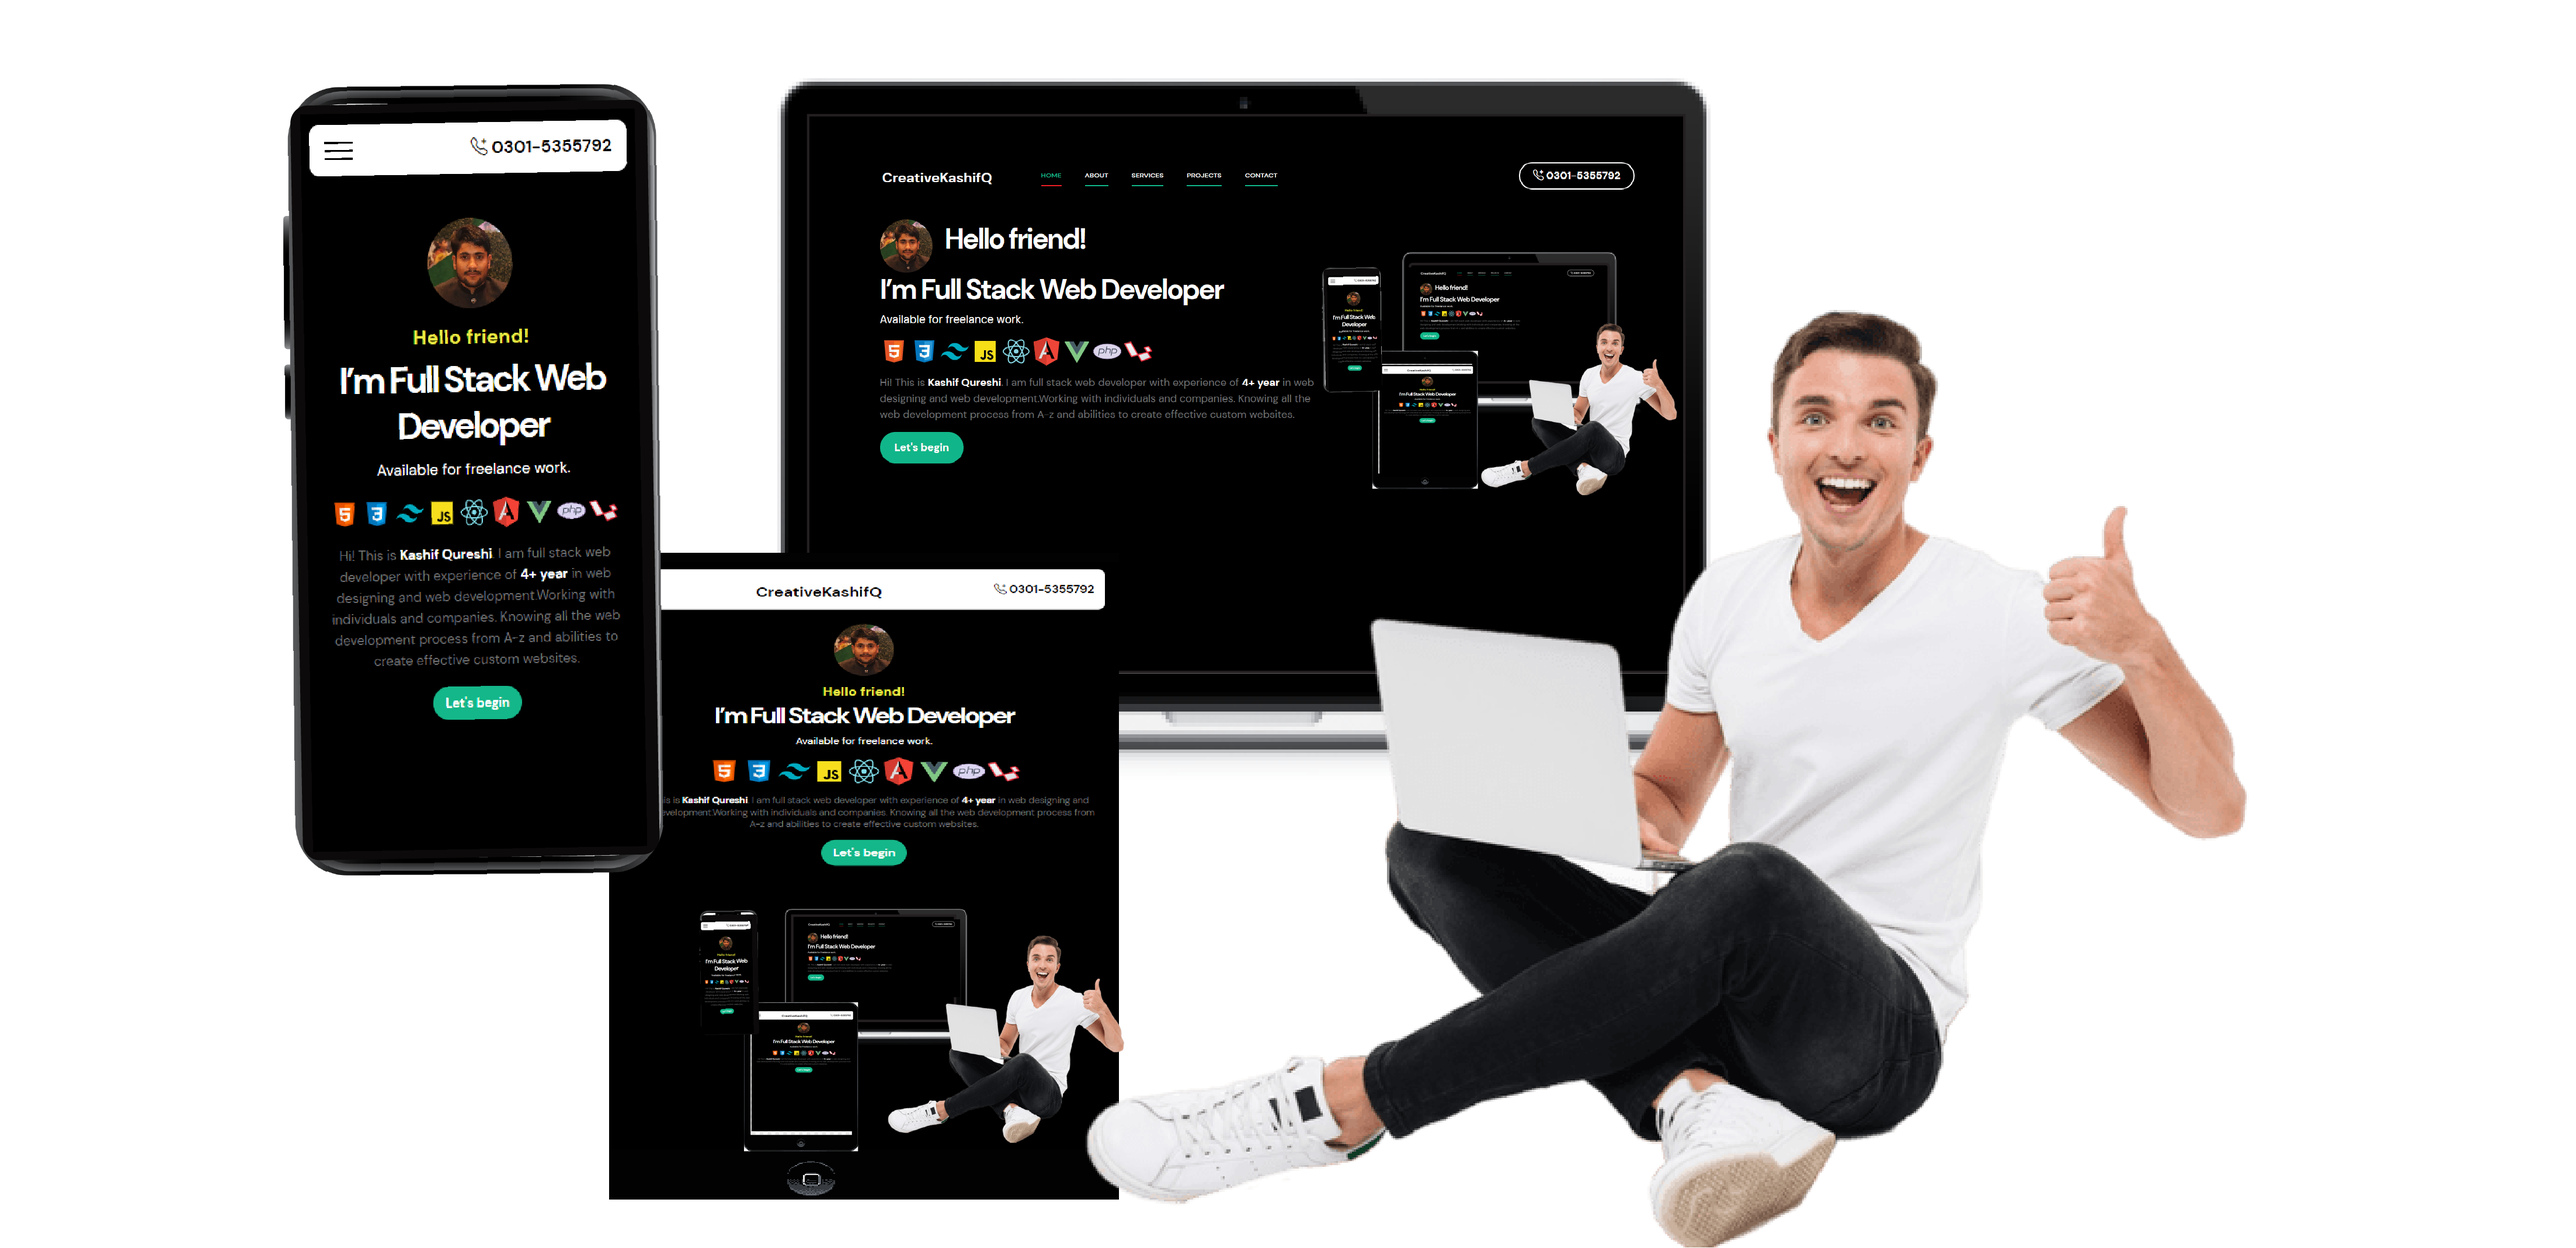
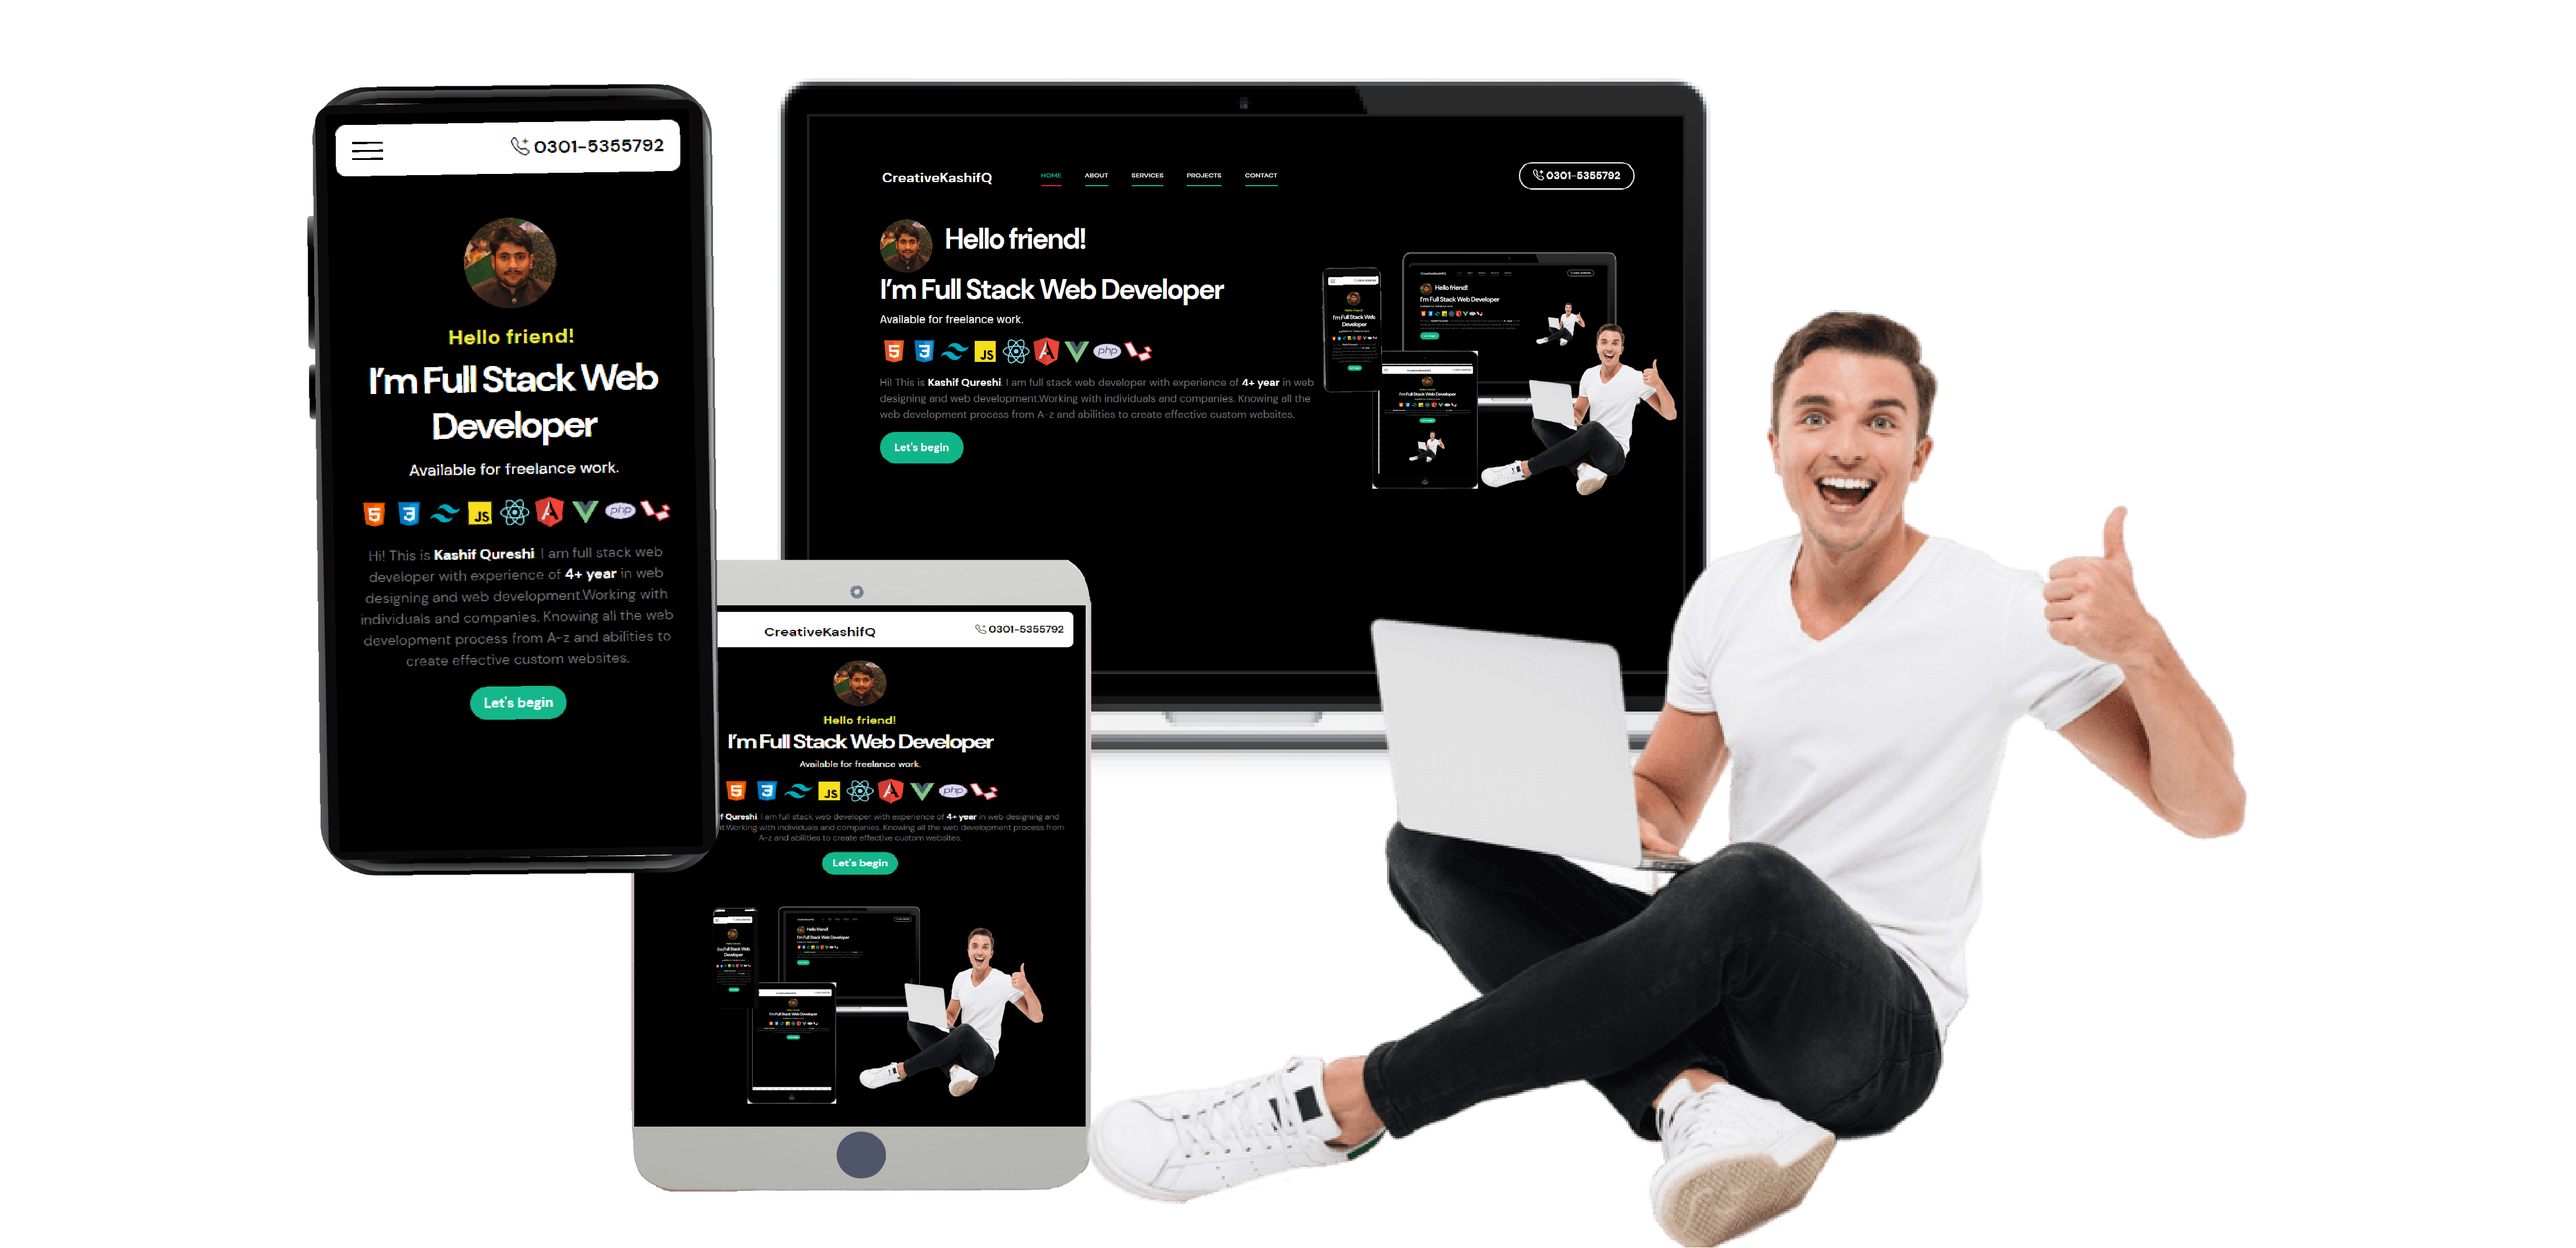
responsive image with mobile

Changed region(s): [[0.0932, 0.0617, 0.4348, 0.9878], [0.5901, 0.247, 0.6212, 0.2778], [0.528, 0.3396, 0.5591, 0.3704]]

diff --git a/index.html b/index.html
@@ -22,16 +22,17 @@
     <link href="resources/css/bootstrap-icons.css" rel="stylesheet">
 
     <link href="resources/css/custom-style.css" rel="stylesheet">
+    
 
 
 </head>
 
 <body>
-
+    
     <section class="preloader">
-        <div class="spinner">
-            <span class="spinner-rotate"></span>
-        </div>
+        <div class="spinner-border text-success" style="width: 2rem; height: 2rem;" role="status">
+            <span class="sr-only"></span>
+          </div>
     </section>
 
     <nav class="navbar navbar-expand-lg">
@@ -90,9 +91,9 @@
 
         <section class="hero d-flex justify-content-center align-items-center" id="section_1">
             <div class="container">
-                <div class="row ">
+                <div class="row  mt-0 mt-lg-5 ">
 
-                    <div class="col-lg-6 col-12 mt-lg-5">
+                    <div class="col-xl-6 col-lg-12 col-md-12 col-12 mt-lg-5">
                         <div class="hero-text">
                             <div class="hero-title-wrap d-flex align-items-center d-none d-lg-block ">
                                 <img src="resources/images/freelancer-kashif.jpeg"
@@ -174,12 +175,16 @@
                         </div>
                     </div>
 
-                    <div class="col-lg-6 col-12 ">
+                    <div class="col-xl-6 col-lg-12 col-md-12 col-12 ">
                             <div class="d-none d-lg-block">
-                                <img src="resources/images/header-right.png" class="img-fluid" alt="" style="height:420px; max-width: 850px;" >
+                                <img src="resources/images/header-right.png" class="img-fluid" alt="" style="height:410px; max-width: 810px; padding-right: 15px;" >
                             </div>
-                            <div class="d-flex justify-content-center d-block d-lg-none">
-                                <img src="resources/images/header-right.png"  alt="header-image" style="height:220px; max-width: 510px; padding-left: 3px;" >
+
+                            <div class="d-none d-lg-none  d-md-block">
+                                <img src="resources/images/header-right.png" class="img-fluid" alt="" style="height:410px; max-width: 810px; padding-right: 15px;" >
+                            </div>
+                            <div class="d-flex justify-content-center d-block d-md-none d-lg-none">
+                                <img src="resources/images/header-right.png"  alt="header-image" style="height:220px; max-width: 510px; padding-left: 5px;" >
                             </div>
                     </div>
 
@@ -689,11 +694,11 @@
     </footer>
 
     <!-- JAVASCRIPT FILES -->
-    <script src="resources/js/jquery.min.js"></script>
-    <script src="resources/js/bootstrap.min.js"></script>
-    <script src="resources/js/jquery.sticky.js"></script>
-    <script src="resources/js/click-scroll.js"></script>
-    <script src="resources/js/custom.js"></script>
+    <script type="text/javascript" src="resources/js/jquery.min.js"></script>
+    <script type="text/javascript" src="resources/js/bootstrap.min.js"></script>
+    <script type="text/javascript" src="resources/js/jquery.sticky.js"></script>
+    <script type="text/javascript" src="resources/js/click-scroll.js"></script>
+    <script type="text/javascript" src="resources/js/custom.js"></script>
 
 </body>
 

diff --git a/resources/css/custom-style.css b/resources/css/custom-style.css
@@ -494,13 +494,13 @@ strong {
   background: var(--secondary-color);
   position: relative;
   overflow: hidden;
-  padding-top: 330px;
-  padding-bottom: 330px;
+  padding-top: 50px;
+  padding-bottom: 50px;
 }
 
 @media  screen and (min-width: 991px) {
   .hero {
-    height: 60vh;
+    
   }
 }
 
@@ -1007,8 +1007,8 @@ strong {
 -----------------------------------------*/
 @media screen and (min-width: 1600px) {
   .hero {
-    padding-top: 380px;
-    padding-bottom: 380px;
+    padding-top: 80px;
+    padding-bottom: 80px;
   }
 
   .hero-image-wrap {
@@ -1107,7 +1107,6 @@ strong {
   }
 
   .hero-text {
-    margin-bottom: 120px;
     text-align: center;
   }
 
